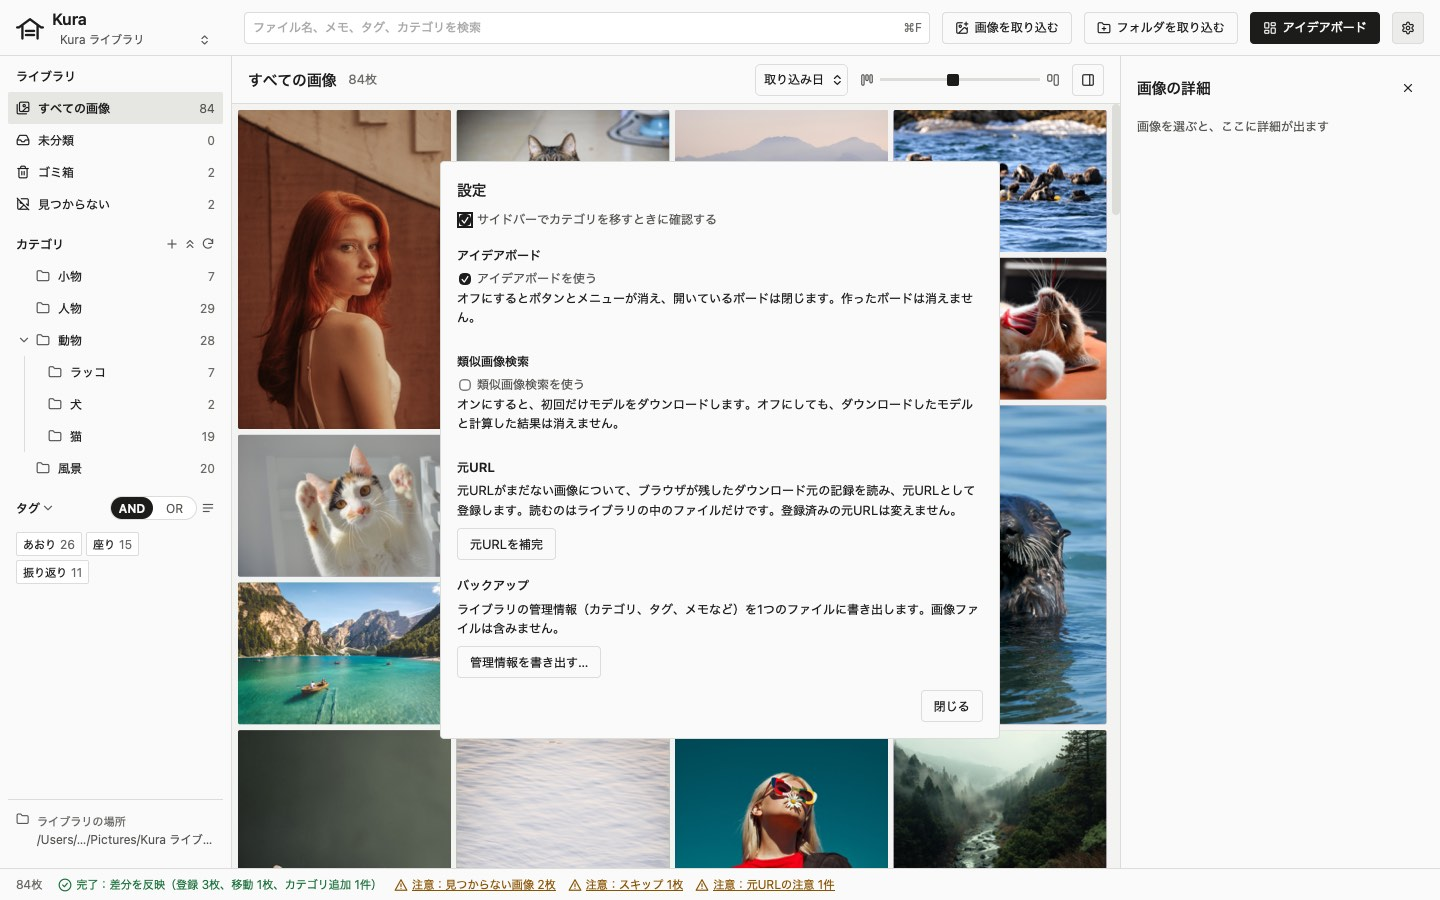
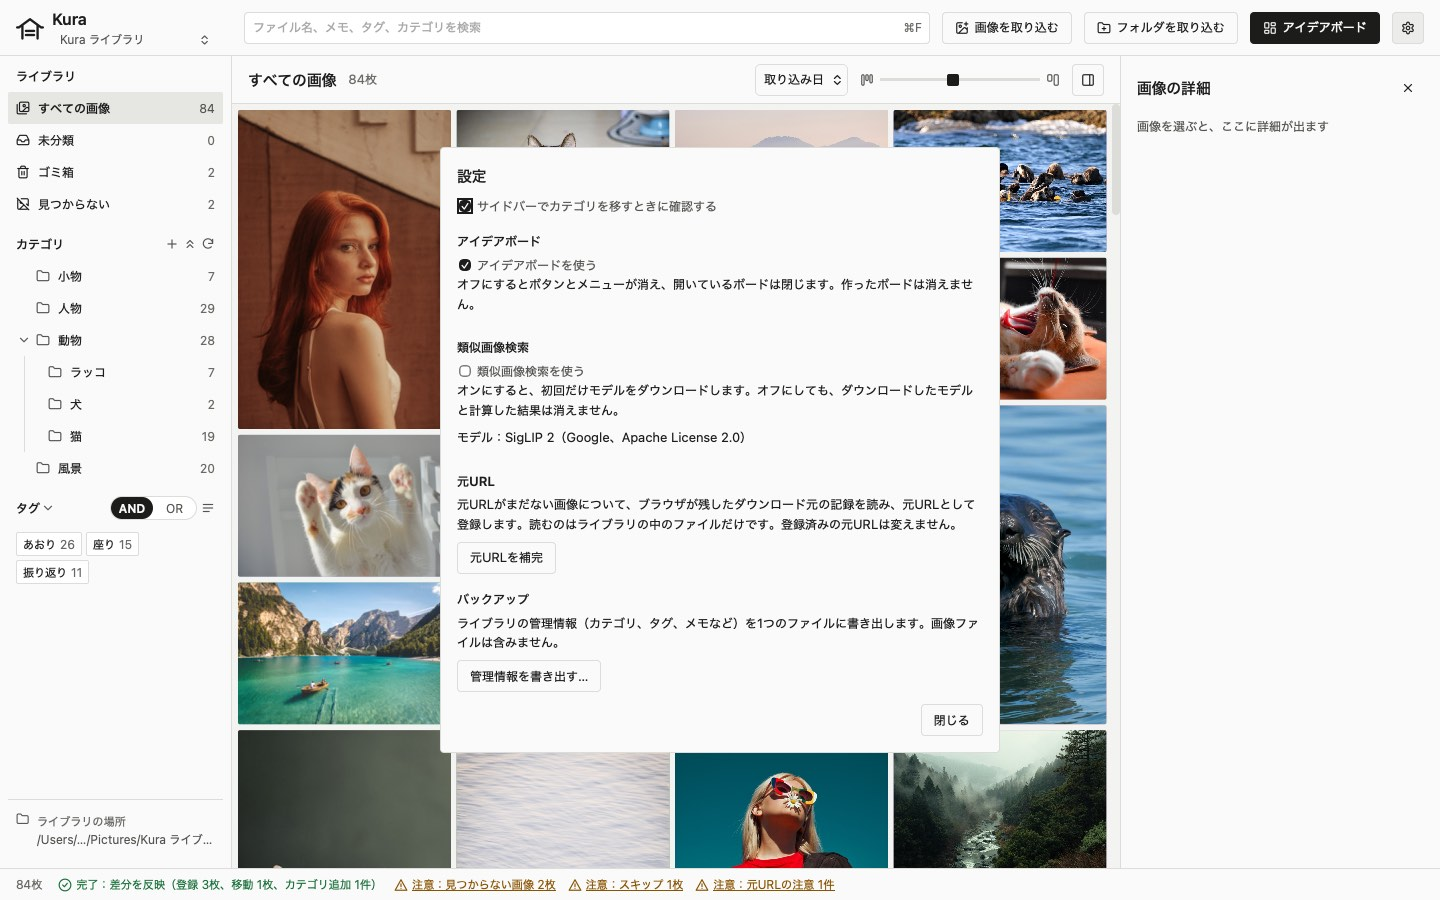
docs: 類似画像検索のモデルとライセンスを、設定と README に表記する（NFR-08、タスク10）
利用者が案1と案2を選んだ（2026-11-16）。Apache-2.0 の写しは models-1 に置くが、使う人がモデルの出どころとライセンスを知れるようにするため。確認ダイアログには足さない。

- 設定の「類似画像検索」の説明の下に「モデル：SigLIP 2（Google、Apache License 2.0）」
- README の「ライセンス」の節と user-guide に、ライセンスの写しの置き場所（models-1）
- settings.jpg を撮り直した

diff --git a/src/SettingsDialog.tsx b/src/SettingsDialog.tsx
@@ -111,6 +111,7 @@ export default function SettingsDialog({
         <p>
           オンにすると、初回だけモデルをダウンロードします。オフにしても、ダウンロードしたモデルと計算した結果は消えません。
         </p>
+        <p>モデル：SigLIP 2（Google、Apache License 2.0）</p>
         {modelFetch?.running && (
           <p className="dialog__row" role="status">
             {modelFetch.progress

diff --git a/README.md b/README.md
@@ -108,3 +108,5 @@ KURA_DOCS_PHOTOS=<見本の写真のフォルダ> npm run docs:screenshots
 ## ライセンス
 
 [MIT](LICENSE)
+
+類似画像検索のモデル（SigLIP 2、Google）は Apache License 2.0 です。ライセンスの写しと表示は、モデルと同じ [GitHub Release（models-1）](https://github.com/kk6/kura/releases/tag/models-1) にあります。
